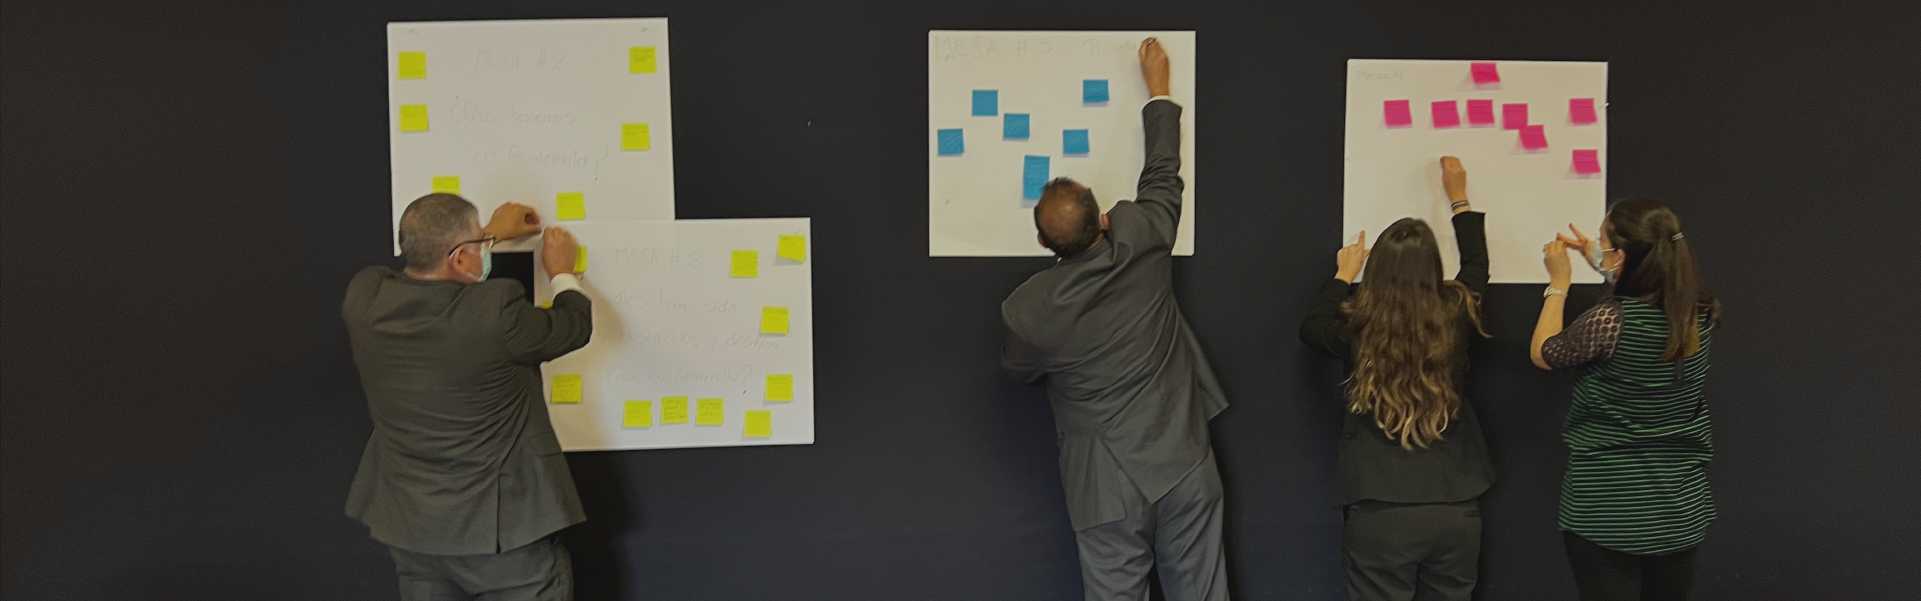
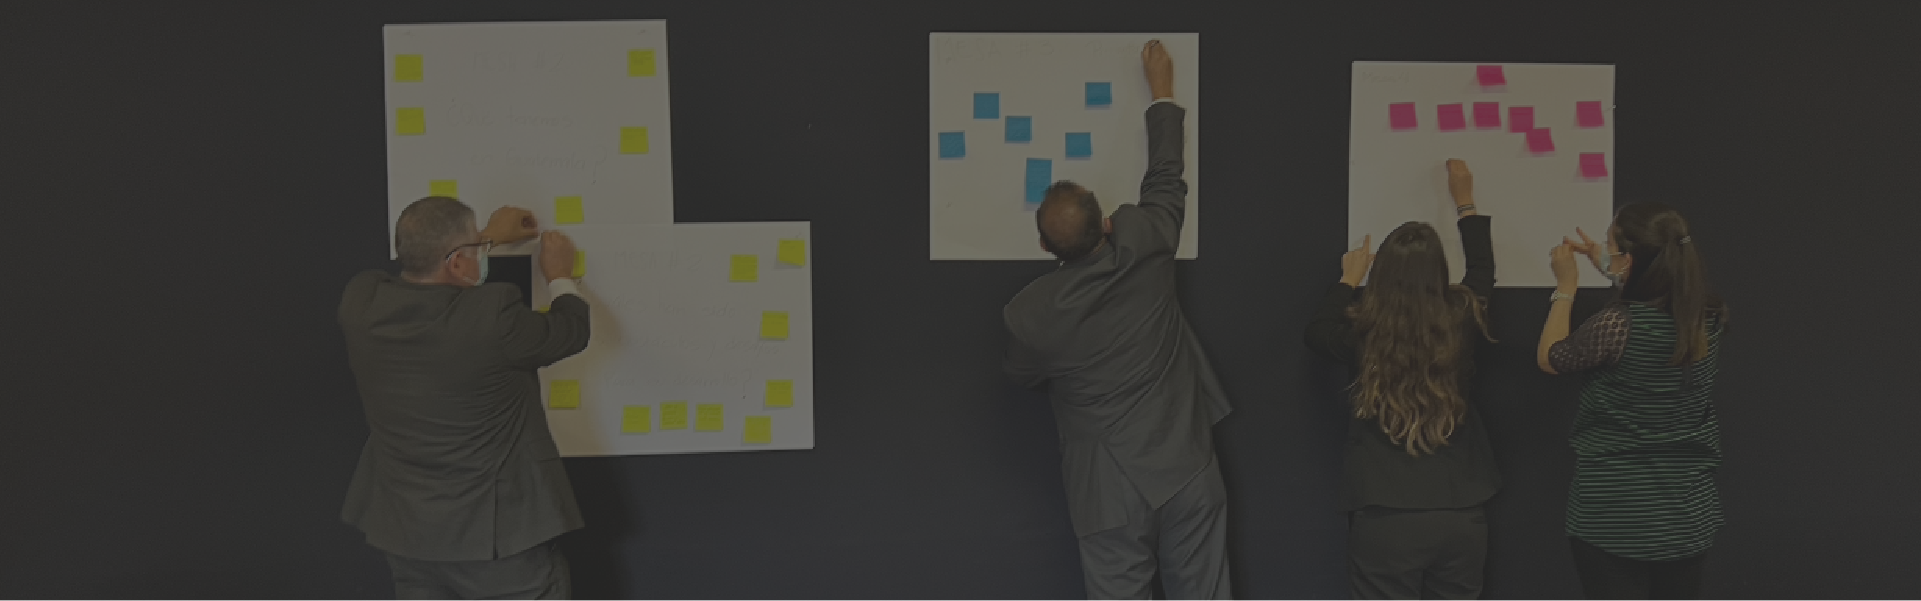
mas elementos

diff --git a/css/main.css b/css/main.css
@@ -6523,3 +6523,16 @@ padding: 10px;
     background-size:cover;
   }
 }
+
+.slider-indice{
+  background-image:url('/ELEMENTOS/07_BANNERS/JA-08.png');
+  background-size:100%;
+}
+
+
+@media (max-width: 700px) {
+	.slider-indice{
+    background-image:url('/ELEMENTOS/07_BANNERS/JA-08.png');
+    background-size:cover;
+  }
+}
